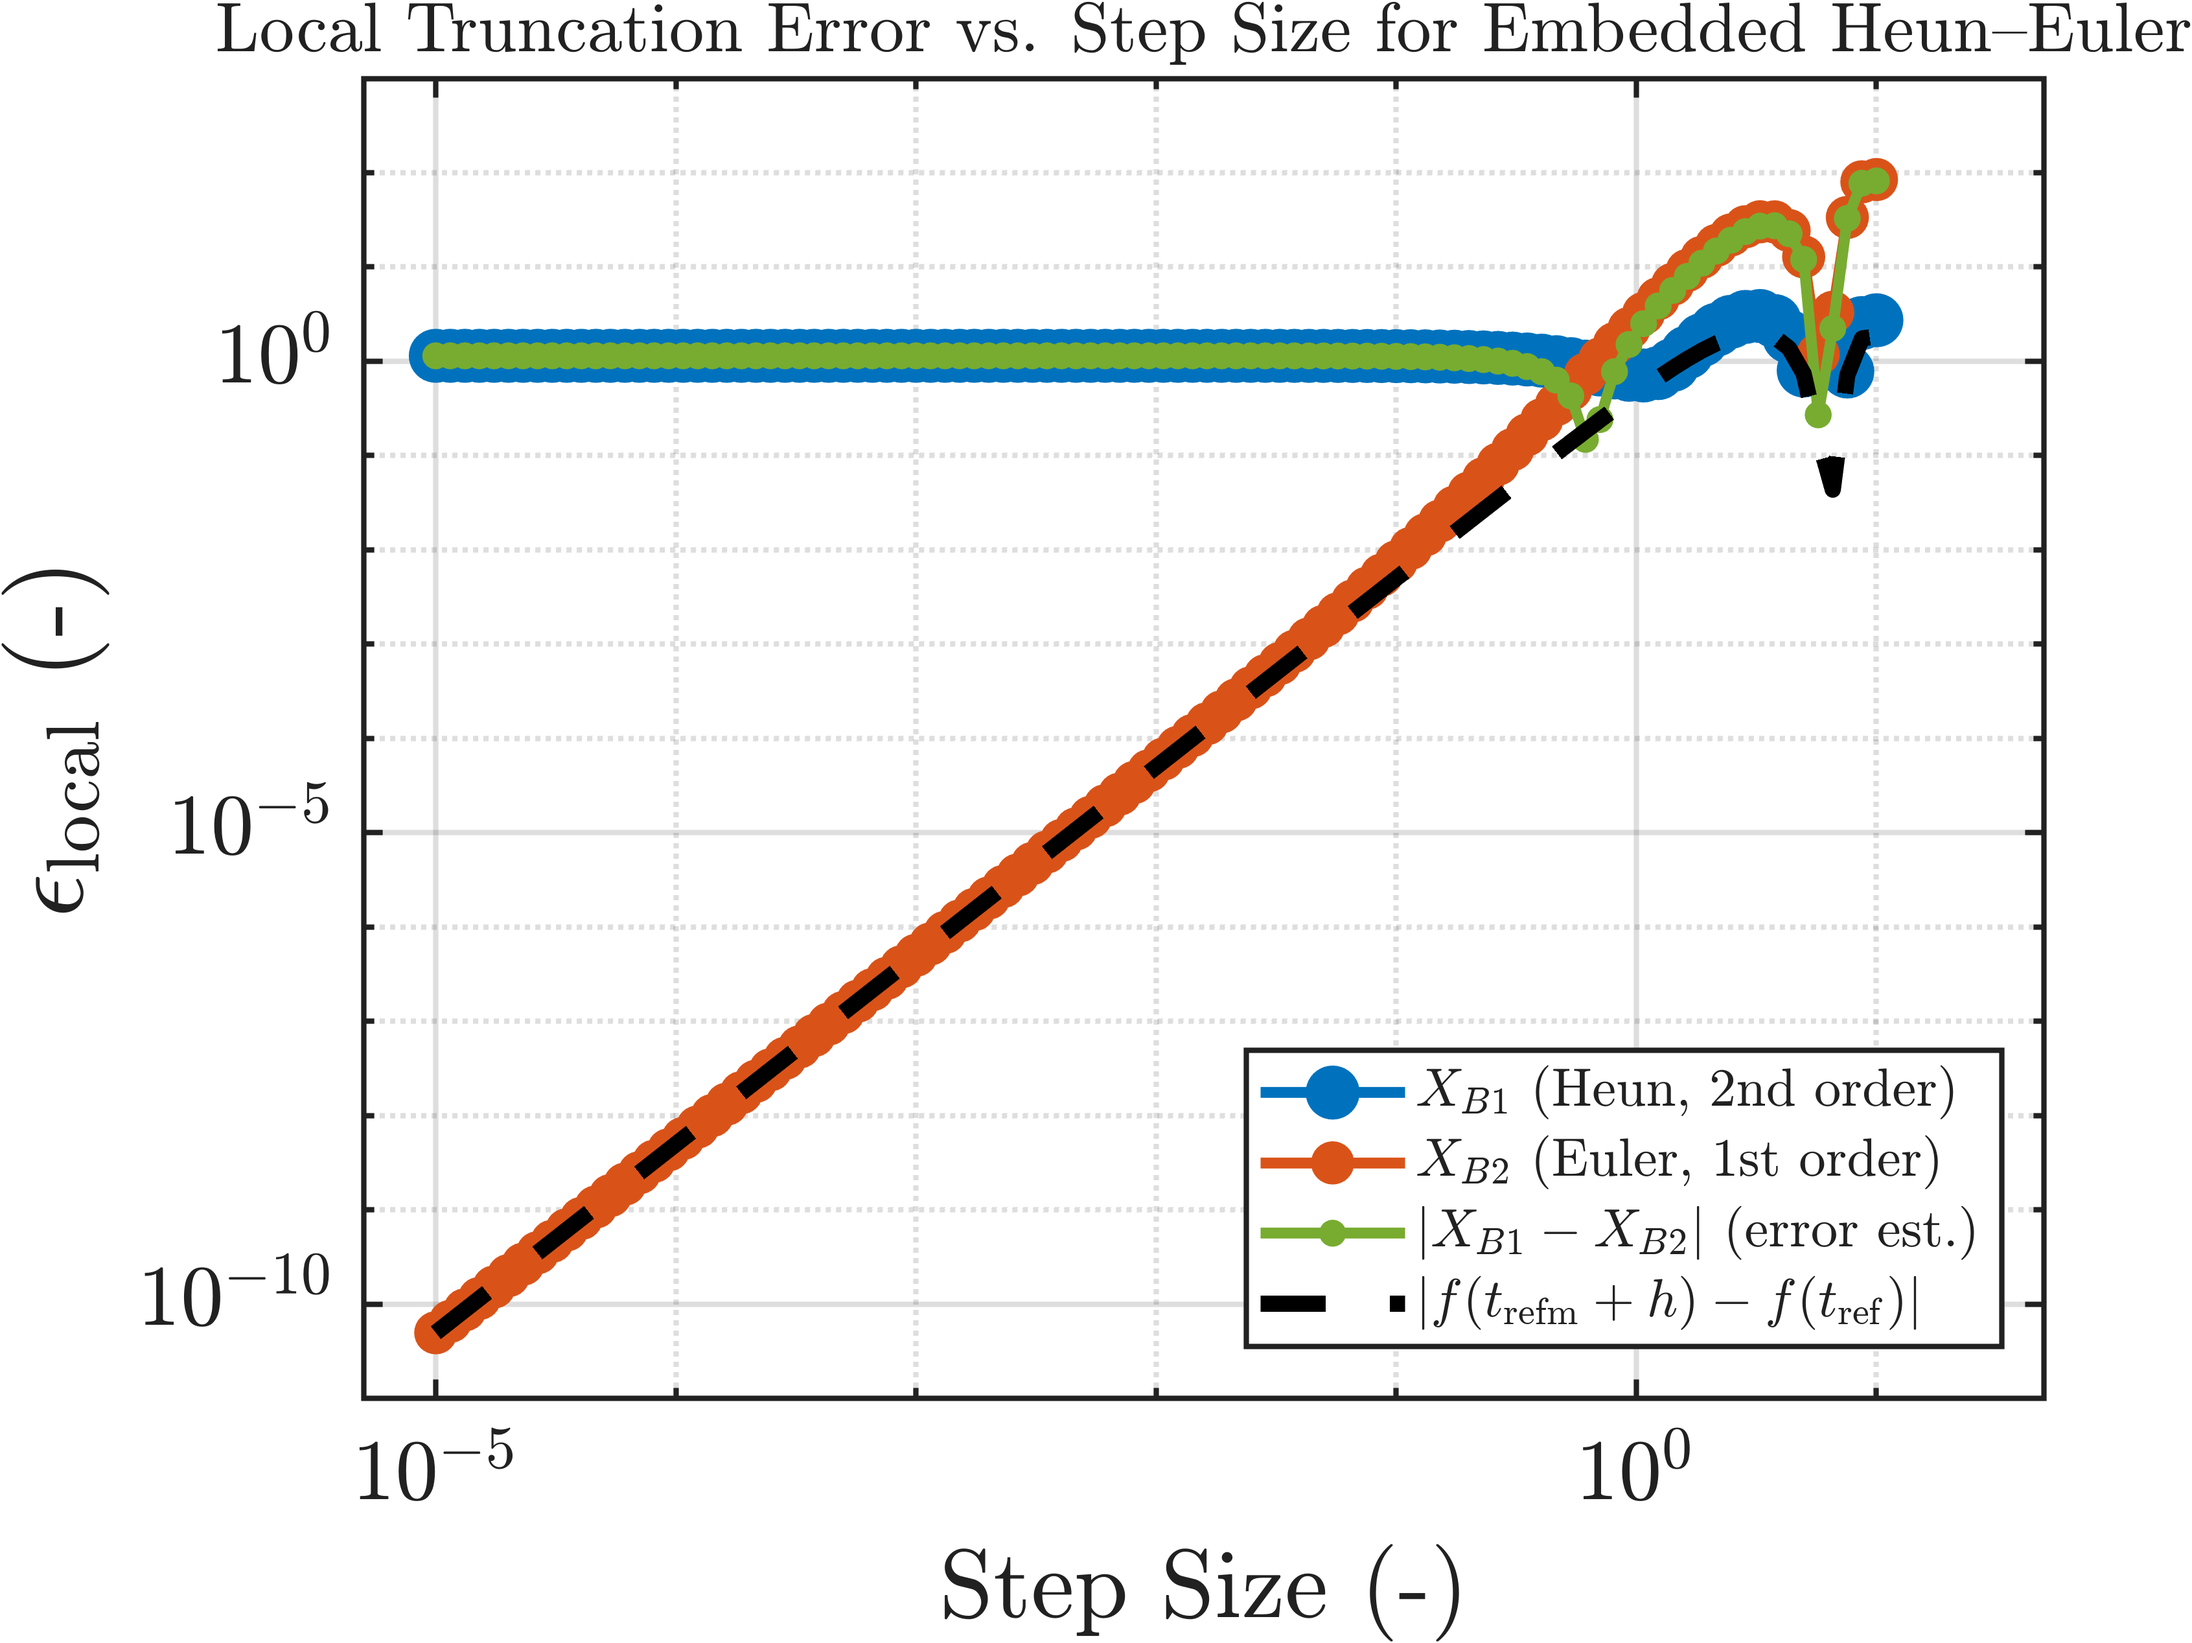
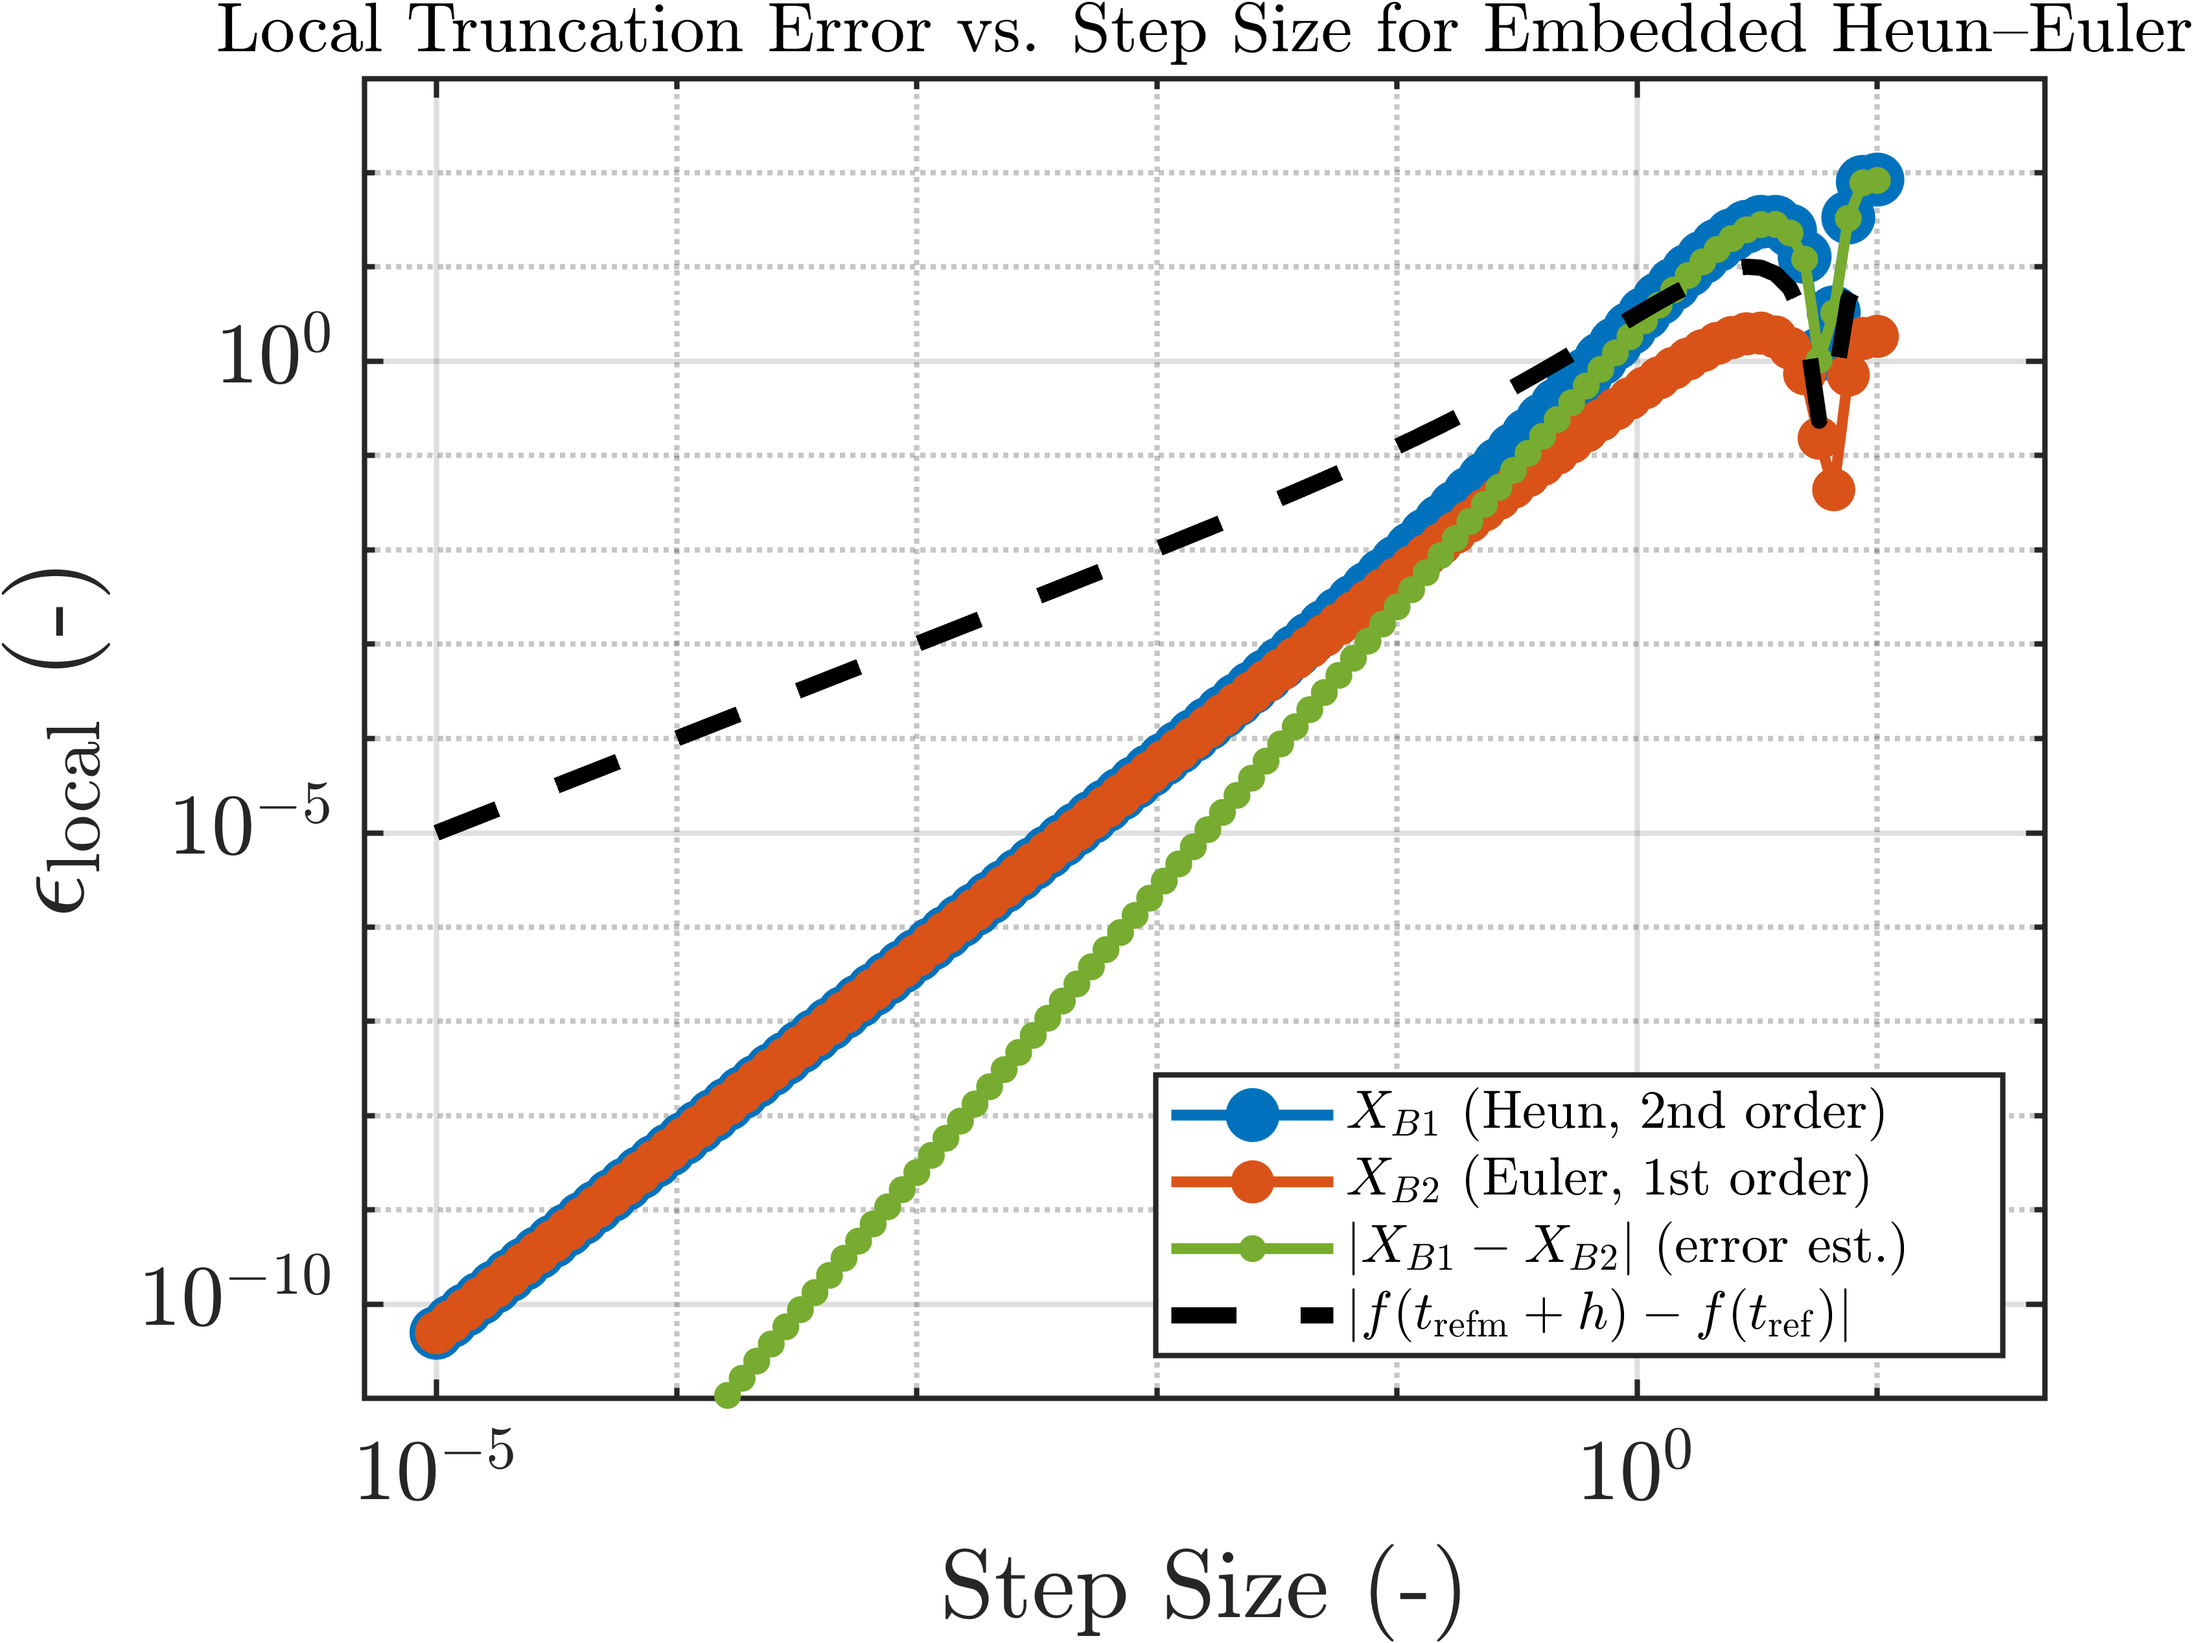
variable step, fix analytical plotting

diff --git a/explicit_RK_variable_step.m b/explicit_RK_variable_step.m
@@ -1,0 +1,54 @@
+%This function computes the value of X at the next time step
+%for any arbitrary embedded RK method
+%also computes the next step size to use, and whether or not to
+%accept/reject the projected value of X(t+h)
+%(for variable time step methods)
+%INPUTS:
+%rate_func_in: the function used to compute dXdt. rate_func_in will
+% have the form: dXdt = rate_func_in(t,X) (t is before X)
+%t: the value of time at the current step
+%XA: the value of X(t)
+%h: the time increment for a single step i.e. delta_t = t_{n+1} - t_{n}
+%BT_struct: a struct that contains the Butcher tableau
+% BT_struct.A: matrix of a_{ij} values
+% BT_struct.B: vector of b_i values
+% BT_struct.C: vector of c_i values
+%p: how error scales with step size (error = k*hˆp)
+%error_desired: the desired local truncation error at each step
+%OUTPUTS:
+%XB: the approximate value for X(t+h)
+%num_evals: A count of the number of times that you called
+% rate_func_in when computing the next step
+%h_next: the time-step size at the next iteration
+%redo: False if the estimated error was less than error_desired
+% True if the estimated error was larger than error_desired
+function [XB, num_evals, h_next, redo] = explicit_RK_variable_step...
+(rate_func_in,t,XA,h,BT_struct,p,error_desired)
+
+    a_vals = BT_struct.A;
+    b_vals = BT_struct.B;
+    c_vals = BT_struct.C;
+    k_vals = zeros(numel(XA), length(c_vals));
+    num_evals = 0;
+
+    for i = 1:length(c_vals)
+        k_vals(:, i) = rate_func_in((t + c_vals(i)*h), (XA + h * k_vals*(a_vals(i, :)')));
+        num_evals = num_evals + 1;
+    end
+
+    XB1 = XA + h * k_vals*b_vals(:, 1);
+    XB2 = XA + h * k_vals*b_vals(:, 2);
+    XB = XB1;
+
+    est_error = abs(XB1-XB2);
+
+    alpha = 2;
+    h_next = min(0.9*(error_desired/est_error)^(1/p), alpha) * h;
+
+    if est_error <= error_desired
+        redo = false;
+    else
+        redo = true;
+    end
+
+end

diff --git a/explicit_RK_variable_step_integration.m b/explicit_RK_variable_step_integration.m
@@ -1,0 +1,42 @@
+%Runs numerical integration arbitrary RK method using variable time steps
+%INPUTS:
+%rate_func_in: the function used to compute dXdt. rate_func_in will
+% have the form: dXdt = rate_func_in(t,X) (t is before X)
+%tspan: a two element vector [t_start,t_end] that denotes the integration endpoints
+%X0: the vector describing the initial conditions, X(t_start)
+%h_ref: the desired value of the average step size (not the actual value)
+%BT_struct: a struct that contains the Butcher tableau
+% BT_struct.A: matrix of a_{ij} values
+% BT_struct.B: vector of b_i values
+% BT_struct.C: vector of c_i values
+%p: how error scales with step size (error = k*hˆp)
+%error_desired: the desired local truncation error at each step
+%OUTPUTS:
+%t_list: the vector of times, [t_start;t_1;t_2;...;.t_end] that X is approximated at
+%X_list: the vector of X, [X0';X1';X2';...;(X_end)'] at each time step
+%h_avg: the average step size
+%num_evals: total number of calls made to rate_func_in during the integration
+function [t_list,X_list,h_avg, num_evals] = explicit_RK_variable_step_integration ...
+(rate_func_in,tspan,X0,h_ref,BT_struct,p,error_desired)
+
+    num_evals = 0;
+    
+    N = ceil((tspan(2)-tspan(1))/h_ref);
+    h_avg = (tspan(2)-tspan(1))/N;
+    t_list = linspace(tspan(1),tspan(2),N+1)';
+    X_list = zeros(N+1,numel(X0));
+    X_list(1,:) = X0(:)';
+
+    XA = X0;
+    for n = 1:N
+        redo = true;
+        while redo == true
+            [XB, num_evals, h_next, redo] = explicit_RK_variable_step(rate_func_in,t,XA,h,BT_struct,p,error_desired);
+            X_list(n+1,:) = XB(:)';
+            XA = XB;
+            num_evals = num_evals + num;
+            h = h_next;
+        end
+    end
+
+end

diff --git a/embedded_rk_evaluation.m b/embedded_rk_evaluation.m
@@ -19,9 +19,10 @@ function embedded_rk_evaluation
     e_list1 = zeros(size(h_vals));
     e_list2 = zeros(size(h_vals));
     f_diff  = zeros(size(h_vals));
+    X = solution01(t_ref);
     for i = 1:numel(h_vals)
         [e_list1(i), e_list2(i)] = embedded_local_truncation_error(G_func, anon_sol, t_ref, h_vals(i));
-        f_diff(i) = abs(anon_sol(t_ref + h_vals(i)) - anon_sol(t_ref));
+        f_diff(i) = abs(anon_rate(t_ref + h_vals(i), X) - anon_rate(t_ref, X));
     end
 
     plot_embedded_error(h_vals, e_list1, e_list2, f_diff);

diff --git a/three_methods_plots.m b/three_methods_plots.m
@@ -78,3 +78,20 @@ BT_struct.C = [0 ; 0.5; 1];
 (anon_grav_rate_func,tspan,V0,h_ref,BT_struct);
 
 plot(X_list(:, 1), X_list(:, 2));
+
+
+
+%%
+% Embedded Heun-Euler tableau
+BT_struct = struct();
+BT_struct.C = [0, 1];
+BT_struct.B = [1/2, 1/2; 1, 0];
+BT_struct.A = [0, 0; 1, 0];
+
+error_desired = 0.05;
+
+
+[t_list,X_list,h_avg, num_evals] = explicit_RK_variable_step_integration ...
+(anon_grav_rate_func,tspan,V0,h_ref,BT_struct,p,error_desired);
+
+plot(X_list(:, 1), X_list(:, 2), 'r--');
